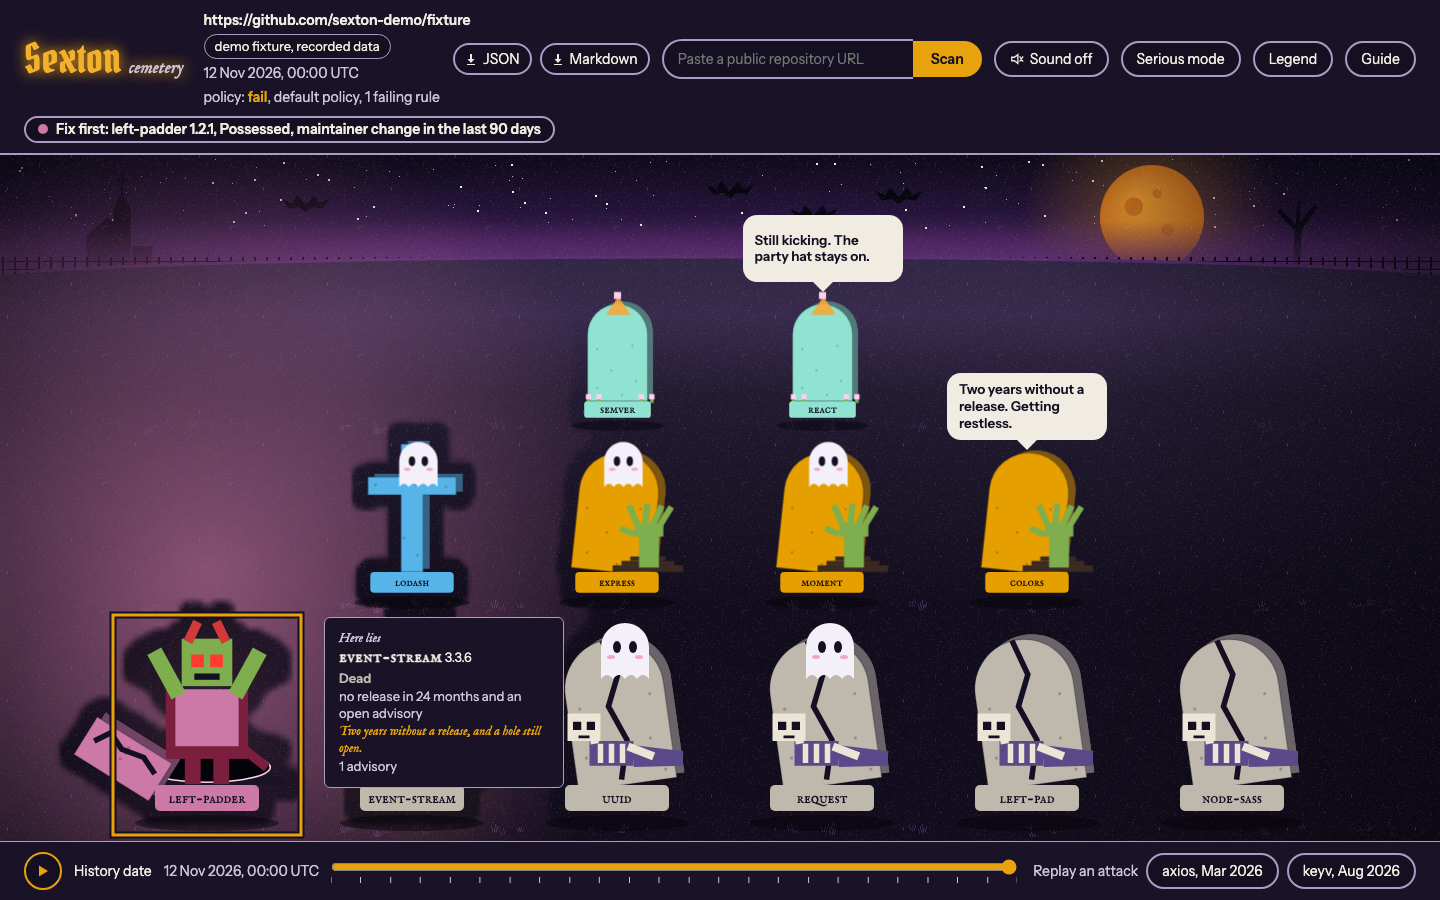
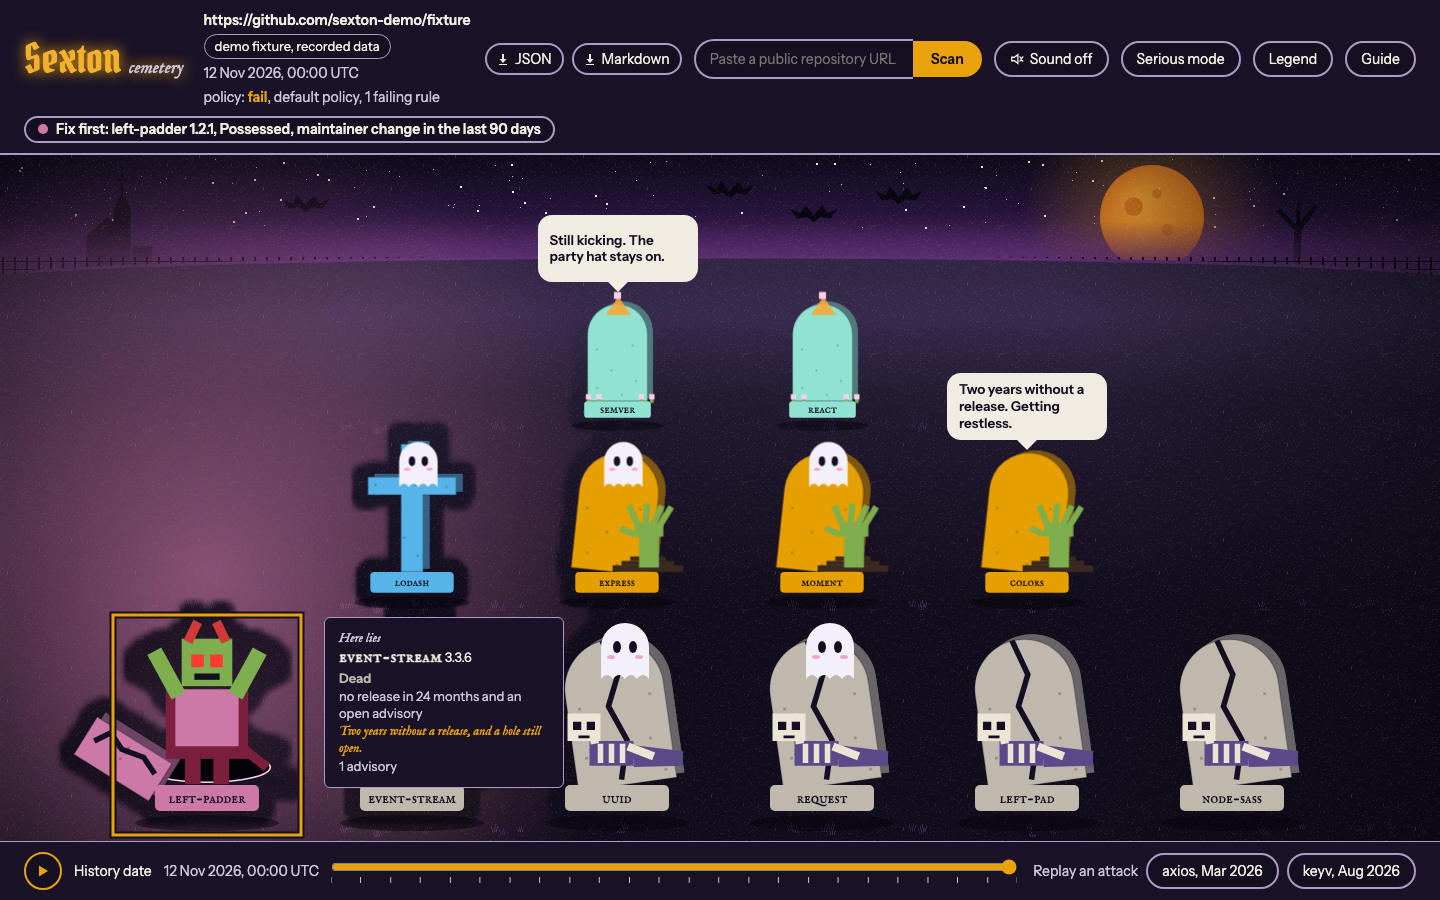
fix(web): narrower URL form at wide screens so the header keeps one policy line

Changed region(s): [[0.375, 0.2178, 0.625, 0.3422], [0.3125, 0.0311, 0.625, 0.0933]]

diff --git a/packages/web/src/styles.css b/packages/web/src/styles.css
@@ -1083,8 +1083,10 @@ pre.signal-value {
   .header-summary {
     min-height: 0;
   }
+  /* 18rem, not 20: the Guide button joined the row, and with 20rem the summary column was narrow enough on Linux for
+     the policy line to wrap, which pushed the front row under the Footer bar (spec judge-path, decision 11). */
   .repo-form {
-    flex: 0 1 20rem;
+    flex: 0 1 18rem;
     flex-wrap: nowrap;
   }
   /* Two summary lines: the repository and its label, then the scan time and the policy. */

diff --git a/.kiro/specs/judge-path/design.md b/.kiro/specs/judge-path/design.md
@@ -207,10 +207,10 @@ Every speed case (`e2e/smoke.spec.ts` three, `e2e/undead2.spec.ts` one, `e2e/fix
 10. "at 1440 by 900 the canvas reaches the bottom of the viewport". Old: the canvas box is read once. New: the same bottom is polled for up to 2 s, because the scene sizes itself after the fonts and the header settle (it read 861.6 once in ten runs). The assertion (at least 900) is unchanged.
 
 `e2e/fixes.spec.ts`
-11. "review: a tooltip over its own grave stays when the pointer goes back from the tooltip to the grave". Old: the grave's box is read once and the pointer moved there. New: the web fonts are awaited and the box is read until two reads agree, then the pointer moves. An early box put the pointer off the grave, or under the Footer bar while the header's fallback text was taller, so no tooltip opened (2 runs in 10 locally, both CI runs of PR #8). The assertions are unchanged.
+11. "review: a tooltip over its own grave stays when the pointer goes back from the tooltip to the grave". Old: the grave's box is read once and the pointer moved there. New: the web fonts are awaited and the box is read until two reads agree, then the pointer moves. An early box put the pointer off the grave, or under the Footer bar while the header was taller (2 runs in 10 locally; on CI the header was taller for good, decision 11). The assertions are unchanged.
 
 `e2e/time.spec.ts`
-12. "at 1440 by 900 on the demo the canvas top is at most 190, with the header on one row and the footer bar in view". Old: measured as soon as the twelve graves exist. New: measured after the web fonts load and the header settles. Cause, confirmed 25 Nov 2026: with the font files held back 1.5 s, the header measured 194 px and the front row's bottom 876 px (under the Footer bar at 841); once the fonts load, 155 px and 837 px. Both CI runs of PR #8 measured during that window (header 174.9 px, graves to 856.9 px). The Fix-first row made the window long enough to fail; main had the same race with more room. The assertions are unchanged.
+12. "at 1440 by 900 on the demo the canvas top is at most 190, with the header on one row and the footer bar in view". Old: measured as soon as the twelve graves exist. New: measured after the web fonts load and the header settles. With the font files held back 1.5 s the header measured 194 px and the front row's bottom 876 px, under the Footer bar at 841; once the fonts load, 155 px and 837 px. The assertions are unchanged. This race was real but was not what failed on CI: see decision 11.
 
 The other e2e that compare two frames (cemetery-undead-fixes bug 2, and the sprite comparison in `e2e/undead2.spec.ts`) already paint both at one paused instant; the remaining pixel reads in `e2e/smoke.spec.ts` and `e2e/undead2.spec.ts` read a single frame against a threshold.
 
@@ -241,4 +241,5 @@ As cemetery-undead-2, with captures of the Demo at 1440 by 900 and 390 by 844 wi
 7. **The Priest is cut by his own outline**, PRIEST_PARTS (4-unit blocks over every phase and the Vigil, measured the same way), not by PRIEST_BOX, which left a dark box round him (critic round 2). PRIEST_BOX stays as the bound his own test checks.
 8. **A docked card has no notch, and the step's control is outlined.** At 1440 by 900 step 4 cannot sit beside the Replay button without covering the front row's names, so it docks above them; a notch there pointed at node-sass (critic round 2). A dock now has no notch, and while a step shows, its Replay button Anchor has a 3 px outline in the focus colour. A grave Anchor keeps its own ring and focus outline. On a narrow screen the card is compact, so it fits between two rows of names, and at 390 by 844 it now sits just above left-padder.
 10. **The speed budget is 16 ms locally and 16 × 1.4 = 22.4 ms on CI.** On the shared Ubuntu runner the same commit (spec/submission-readiness, runs 45708669411 and 45708680577 of 25 Nov 2026) measured the 300 front-row Halo repaint at 14.00 ms and 16.45 ms, against 11.90 ms on the Mac for that code: 1.18 to 1.38 times slower. The smaller cases ran 1.5 to 3 times slower but stay far under the budget (2.30 to 5.90 ms). 1.4 covers the worst heavy-case ratio seen. A real regression still fails: the cold Halo repaint before this spec, 19.80 ms on the Mac, would measure 23.4 to 27.3 ms on CI at those ratios, over 22.4; the uncached Halo of cemetery-undead-fixes (229 ms) far more. This branch's heaviest case, 11.55 ms on the Mac, would be at most about 16 ms on CI. Locally every case keeps 16 ms.
+11. **The Repository URL form is 18 rem wide at 960 px and wider, not 20.** Both CI runs of PR #8 failed the canvas-top test and the tooltip test with the header at 174.9 px (155 px on the Mac). In Linux Chromium (the Playwright image, 1.65.1) the summary column was 226 px wide, so its policy line wrapped to two lines; the header grew by one line and pushed the front row under the Footer bar, where the tooltip test's pointer then landed. Main's header was 119.7 px on CI: the Guide button had taken the room. With the form at 18 rem the summary is 258 px, the policy line (242 px) stays on one line, and the header is 155 px on Linux as on the Mac.
 9. **`haloAlphaAt` reads only the cuts near a point**, from grid buckets kept per mask: a cut farther than its soft edge reaches changes nothing, and the cuts keep their order, so the value is the same. With the finer Part boxes the Halo property test ran past its 60 s limit under the full suite; it now takes about 21 s alone.

diff --git a/.kiro/specs/judge-path/tasks.md b/.kiro/specs/judge-path/tasks.md
@@ -84,3 +84,4 @@ Run-time notes:
 - Speed budgets: 16 ms locally, 22.4 ms when CI is set (Deliberate test change 9, decision 10); no speed case removed.
 - Left as a note: once in four root runs, "Part boxes hold every mark of a Form" (cemetery-undead-fixes) ran past the 20 s test limit under the full suite's load. It takes 4.5 s alone, the same with main's Part boxes, and passed in every other run.
 - PR #8, first CI run: the e2e job failed in both runs on two checks that measured the page before its web fonts loaded (Deliberate test changes 11 and 12). After the fix, ten full local runs: 50 of 50 passed in every run.
+- PR #8, second CI run: the same two checks failed again with the header at 174.9 px, so the font wait was not the CI cause. Reproduced in Linux Chromium (the Playwright 1.65.1 image): the policy line wrapped in a 226 px summary column. Fixed by an 18 rem Repository URL form (decision 11); Linux header 155 px, front row bottom 837 px above the Footer bar at 841. Gates pass; three full local e2e runs 50 of 50. README pictures retaken.
